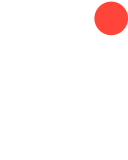
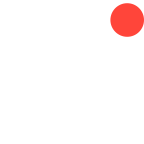
feat: resize battery to 18x18 with slightly larger terminals

Changed region(s): [[0.7812, 0.0556, 1.0, 0.2778], [0.7188, 0.0, 0.9688, 0.1944]]

diff --git a/Tests/LeanBatteryCoreTests/IconRendererTests.swift b/Tests/LeanBatteryCoreTests/IconRendererTests.swift
@@ -47,8 +47,8 @@ private func render(_ state: BatteryState) throws -> Pixels {
 @Suite struct IconRendererTests {
 	@Test func rendersAtRequestedScale() throws {
 		let image = try #require(IconRenderer.render(IconSpec(state: BatteryState(percent: 57)), foregroundIsWhite: true, scale: 2))
-		#expect(image.width == 32)
-		#expect(image.height == 40)
+		#expect(image.width == 36)
+		#expect(image.height == 36)
 	}
 
 	@Test func bodyStrokeIsForeground() throws {
@@ -60,45 +60,45 @@ private func render(_ state: BatteryState) throws -> Pixels {
 	}
 
 	@Test func foregroundFillIsTranslucent() throws {
-		// (3, 17) is inside the fill, below the number; 28% alpha ≈ 71.
-		let pixel = try render(BatteryState(percent: 50)).at(3, 17)
+		// (3, 15) is inside the fill, below the number; 28% alpha ≈ 71.
+		let pixel = try render(BatteryState(percent: 50)).at(3, 15)
 		#expect((60...85).contains(pixel[3]))
 	}
 
 	@Test func chargingFillIsTranslucentGreen() throws {
 		// 60% alpha ≈ 153; premultiplied green channel dominates.
-		let pixel = try render(BatteryState(percent: 50, isCharging: true, isPluggedIn: true)).at(3, 17)
+		let pixel = try render(BatteryState(percent: 50, isCharging: true, isPluggedIn: true)).at(3, 15)
 		#expect((140...165).contains(pixel[3]))
 		#expect(pixel[1] > pixel[0] && pixel[1] > pixel[2])
 	}
 
 	@Test func numberIsSolidOverFillWithoutGaps() throws {
 		// At 88% the whole glyph area is inside the fill: digits solid white, nothing cut out.
-		let glyphArea = try render(BatteryState(percent: 88)).region(x: 2.5...13.5, y: 7...15)
+		let glyphArea = try render(BatteryState(percent: 88)).region(x: 3.5...14.5, y: 6...14)
 		#expect(glyphArea.contains { $0 == [255, 255, 255, 255] })
 		#expect(!glyphArea.contains { $0[3] == 0 })
 	}
 
 	@Test func plugIsSolidInsideFill() throws {
-		// (8, 14.0) is on the plug's cord, below where a "100" would sit.
-		#expect(try render(BatteryState(percent: 100, isPluggedIn: true)).at(8, 14.0) == [255, 255, 255, 255])
-		#expect(try render(BatteryState(percent: 100)).at(8, 14.0)[3] < 255)
+		// (9, 13.25) is on the plug's cord, below where a "100" would sit.
+		#expect(try render(BatteryState(percent: 100, isPluggedIn: true)).at(9, 13.25) == [255, 255, 255, 255])
+		#expect(try render(BatteryState(percent: 100)).at(9, 13.25)[3] < 255)
 	}
 
 	@Test func hotBadgeIsRedWithTransparentRing() throws {
 		let hot = try render(BatteryState(percent: 57, isHot: true))
-		let badge = hot.at(13.9, 2.3)
+		let badge = hot.at(15.9, 2.5)
 		#expect(badge[0] > 220 && badge[1] < 100 && badge[3] == 255)
-		// (15.3, 4.3) is on the body's rounded corner stroke, inside the cleared ring.
-		#expect(hot.at(15.3, 4.3)[3] == 0)
-		#expect(try render(BatteryState(percent: 57)).at(15.3, 4.3)[3] == 255)
+		// (17.3, 4.5) is on the body's rounded corner stroke, inside the cleared ring.
+		#expect(hot.at(17.3, 4.5)[3] == 0)
+		#expect(try render(BatteryState(percent: 57)).at(17.3, 4.5)[3] == 255)
 	}
 
 	@Test func twoTopTerminalsHaveATransparentGap() throws {
 		let pixels = try render(BatteryState(percent: 57))
-		#expect(pixels.at(4.5, 1) == [255, 255, 255, 255])
-		#expect(pixels.at(11.5, 1) == [255, 255, 255, 255])
-		#expect(pixels.at(8, 1)[3] == 0)
+		#expect(pixels.at(5, 1) == [255, 255, 255, 255])
+		#expect(pixels.at(13, 1) == [255, 255, 255, 255])
+		#expect(pixels.at(9, 1)[3] == 0)
 	}
 
 	@Test(arguments: 0...100)
@@ -114,7 +114,7 @@ private func render(_ state: BatteryState) throws -> Pixels {
 	@Test(arguments: [1.0, 2.0])
 	func rendersNewDimensionsAtEachScale(scale: Double) throws {
 		let image = try #require(IconRenderer.render(IconSpec(state: BatteryState(percent: 100)), foregroundIsWhite: true, scale: scale))
-		#expect(image.width == Int(16 * scale))
-		#expect(image.height == Int(20 * scale))
+		#expect(image.width == Int(18 * scale))
+		#expect(image.height == Int(18 * scale))
 	}
 }

diff --git a/Tests/LeanBatteryCoreTests/PillStyleTests.swift b/Tests/LeanBatteryCoreTests/PillStyleTests.swift
@@ -7,8 +7,8 @@ import Testing
 		#expect(metrics.height == 46)
 		#expect(metrics.minimumWidth == 240)
 		#expect(metrics.maximumWidth == 400)
-		#expect(metrics.iconWidth == 16)
-		#expect(metrics.iconHeight == 20)
+		#expect(metrics.iconWidth == 18)
+		#expect(metrics.iconHeight == 18)
 		#expect(metrics.titleFontSize == 13)
 		#expect(metrics.detailFontSize == 11.5)
 		#expect(metrics.horizontalPadding == 22)
@@ -23,26 +23,27 @@ import Testing
 		let large = PillMetrics(style: .large)
 		#expect(small.height == 46 * 0.85)
 		#expect(small.titleFontSize == 13 * 0.85)
-		#expect(small.iconHeight == 20 * 0.85)
+		#expect(small.iconHeight == 18 * 0.85)
 		#expect(small.minimumWidth == 240 * 0.85)
 		#expect(large.height == 46 * 1.2)
 		#expect(large.titleFontSize == 13 * 1.2)
-		// Large grows the text and the box but not the glyph: 16 x 20 pt is as large as it renders crisply.
-		#expect(large.iconHeight == 20)
+		// Large grows the text and the box but not the glyph: 18 x 18 pt is as large as it renders crisply.
+		#expect(large.iconHeight == 18)
 		#expect(large.maximumWidth == 400 * 1.2)
 	}
 
 	@Test func iconIsNeverDrawnLargerThanTheGlyphIsRendered() {
-		// IconRenderer draws 16 x 20 pt at 1x and 2x; anything wider is an upscale of that bitmap.
+		// IconRenderer draws 18 x 18 pt at 1x and 2x; anything wider is an upscale of that bitmap.
 		for style in PillStyle.allCases {
-			#expect(PillMetrics(style: style).iconWidth <= 16)
+			#expect(PillMetrics(style: style).iconWidth <= 18)
+			#expect(PillMetrics(style: style).iconHeight <= 18)
 		}
 	}
 
-	@Test func iconKeepsItsSixteenToTwentyAspectAtEverySize() {
+	@Test func iconKeepsItsSquareAspectAtEverySize() {
 		for style in PillStyle.allCases {
 			let metrics = PillMetrics(style: style)
-			#expect(abs(metrics.iconWidth / metrics.iconHeight - 16.0 / 20.0) < 0.000001)
+			#expect(metrics.iconWidth == metrics.iconHeight)
 		}
 	}
 

diff --git a/Sources/LeanBatteryCore/IconRenderer.swift b/Sources/LeanBatteryCore/IconRenderer.swift
@@ -5,16 +5,16 @@ import Foundation
 /// Draws the upright battery icon (spec §4.1) into a transparent bitmap.
 public enum IconRenderer {
 	/// Icon canvas in points.
-	public static let size = CGSize(width: 16, height: 20)
+	public static let size = CGSize(width: 18, height: 18)
 
 	private static let terminals = [
-		CGRect(x: 3.0, y: 0.4, width: 3.0, height: 1.6),
-		CGRect(x: 10.0, y: 0.4, width: 3.0, height: 1.6),
+		CGRect(x: 3.25, y: 0.4, width: 3.5, height: 1.8),
+		CGRect(x: 11.25, y: 0.4, width: 3.5, height: 1.8),
 	]
-	private static let body = CGRect(x: 0.45, y: 2.2, width: 15.1, height: 17.4)
+	private static let body = CGRect(x: 0.45, y: 2.4, width: 17.1, height: 15.2)
 	private static let bodyStrokeWidth = 0.9
-	static let inner = CGRect(x: 1.35, y: 3.1, width: 13.3, height: 15.6)
-	private static let badgeCenter = CGPoint(x: 13.9, y: 2.3)
+	static let inner = CGRect(x: 1.35, y: 3.3, width: 15.3, height: 13.4)
+	private static let badgeCenter = CGPoint(x: 15.9, y: 2.5)
 	/// Fill opacities: soft enough that a solid glyph drawn on top stays readable.
 	private static let foregroundFillAlpha = 0.28
 	private static let colorFillAlpha = 0.6
@@ -41,7 +41,7 @@ public enum IconRenderer {
 		return context.makeImage()
 	}
 
-	/// Draws into a context whose user space is 16 × 20 pt with a top-left origin.
+	/// Draws into a context whose user space is 18 × 18 pt with a top-left origin.
 	static func draw(_ spec: IconSpec, foreground: CGColor, in context: CGContext) {
 		context.setFillColor(foreground)
 		for terminal in terminals {

diff --git a/Sources/LeanBatteryCore/PillStyle.swift b/Sources/LeanBatteryCore/PillStyle.swift
@@ -84,7 +84,7 @@ public struct PillMetrics: Equatable, Sendable {
 			height = 42
 			minimumWidth = notchWidth + Self.notchSideMargin
 			maximumWidth = notchWidth + Self.notchSideMargin + Self.notchGrowth
-			iconHeight = 20
+			iconHeight = Double(IconRenderer.size.height)
 			iconWidth = iconHeight * Double(IconRenderer.size.width / IconRenderer.size.height)
 			titleFontSize = 12.5
 			detailFontSize = 11
@@ -101,7 +101,7 @@ public struct PillMetrics: Equatable, Sendable {
 		height = 46 * scale
 		minimumWidth = 240 * scale
 		maximumWidth = 400 * scale
-		// The glyph is rendered at 16 x 20 pt (1x and 2x), so drawing it any larger upscales that bitmap
+		// The glyph is rendered at 18 x 18 pt (1x and 2x), so drawing it any larger upscales that bitmap
 		// and softens it. Small shrinks it; Large keeps it at native size and grows only the text and box.
 		iconWidth = Double(IconRenderer.size.width) * min(scale, 1)
 		iconHeight = Double(IconRenderer.size.height) * min(scale, 1)

diff --git a/Sources/LeanBatteryCore/IconSpec.swift b/Sources/LeanBatteryCore/IconSpec.swift
@@ -39,7 +39,7 @@ public struct IconSpec: Equatable, Sendable {
 		showsHotBadge = state.isHot
 	}
 
-	/// Point size of the number glyph; smaller for three digits so "100" fits the 13.3pt interior.
+	/// Point size of the number glyph; smaller for three digits so "100" fits the 15.3pt interior.
 	public var numberFontSize: Double {
 		glyph == .number(100) ? 8.0 : 10.0
 	}

diff --git a/README.md b/README.md
@@ -3,7 +3,7 @@
 
 > **A battery indicator that doesn't hog your menubar.**
 >
-> A native macOS menubar app that shows battery level and charging state in a 16-point-wide upright battery, with a popover for per-app energy use and battery health.
+> A native macOS menubar app that shows battery level and charging state in an 18-point-wide upright battery, with a popover for per-app energy use and battery health.
 >
 > **<0.1% CPU and 0 idle wakeups** while it sits in your menubar. Measured, not claimed — [see the numbers](#efficiency-measured).
 
@@ -17,7 +17,7 @@
 
 ## Wider-icon fork
 
-This fork changes the battery artwork from 11 × 22 pt to **16 × 20 pt**, with two top terminals instead of a single cap. The shorter icon sits closer to other menubar icons in height. Percentages use 10 pt SF semibold condensed, or 8 pt for `100`, up from 9 pt and 6.6 pt in the earlier 14 × 22 pt version. Every percentage from 0 through 100 is checked against the 13.3 pt drawing interior. Notification battery icons keep the same proportions.
+This fork changes the battery artwork from 11 × 22 pt to **18 × 18 pt**, with two 3.5 × 1.8 pt top terminals instead of a single cap. The shorter icon sits closer to other menubar icons in height. Percentages use 10 pt SF semibold condensed, or 8 pt for `100`. Every percentage from 0 through 100 is checked against the 15.3 pt drawing interior. Notification battery icons keep the same proportions.
 
 The monitoring logic, permissions and update checker are unchanged. Update notices still refer to upstream releases, not builds of this fork. The performance measurements below are upstream's measurements; they have not been repeated for this fork.
 
@@ -41,7 +41,7 @@ Or [download the latest zip](https://github.com/manustays/lean-battery/releases/
 
 The macOS battery icon with a percentage is wide, and on a notched MacBook menubar space is scarce. Many third-party battery apps are wider still, and many poll the system constantly.
 
-**LeanBattery** turns the battery upright: the charge level, charging plug, Low Power Mode and a high-temperature warning all fit in a 16-point-wide icon. It does no polling for battery state — it redraws only when macOS reports a change.
+**LeanBattery** turns the battery upright: the charge level, charging plug, Low Power Mode and a high-temperature warning all fit in an 18-point-wide icon. It does no polling for battery state — it redraws only when macOS reports a change.
 
 ## Efficiency, measured
 
@@ -81,7 +81,7 @@ Numbers are one machine and one configuration; yours will differ. The full metho
 
 **In the menubar (available now)**
 
-- **Upright battery icon, 16 × 20 pt** with two top terminals and the charge % inside.
+- **Upright battery icon, 18 × 18 pt** with two top terminals and the charge % inside.
 - **Charging at a glance** — a plug replaces the number while on power; green fill while charging.
 - **Low Power Mode** shown as a yellow fill; **low battery** (≤ 20%) as red.
 - **High-temperature badge** — a red dot when the battery reaches your threshold (default 40 °C).

diff --git a/docs/menubar-icon.md b/docs/menubar-icon.md
@@ -1,6 +1,6 @@
 # Menubar Icon
 
-LeanBattery's menubar item in this fork is an upright battery, 16 × 20 pt, with two top terminals. Core Graphics draws the outline, translucent fill and plug; Core Text draws the percentage. The app renders these into 1× and 2× images for macOS, rather than loading a fixed icon asset.
+LeanBattery's menubar item in this fork is an upright battery, 18 × 18 pt, with two 3.5 × 1.8 pt top terminals. Core Graphics draws the outline, translucent fill and plug; Core Text draws the percentage. The app renders these into 1× and 2× images for macOS, rather than loading a fixed icon asset.
 
 ## States
 
@@ -13,11 +13,11 @@ LeanBattery's menubar item in this fork is an upright battery, 16 × 20 pt, with
 | Temperature ≥ threshold | unchanged | unchanged + red dot top-right |
 | No battery data (desktop Mac, or before macOS reports power at login) | "—" text instead of the battery | — |
 
-The fill is translucent and the % or plug is always drawn in one solid color (white on a dark menubar, black on a light one) on top of it, so digits stay whole and readable at any charge level. Digits use SF semibold condensed to make use of the wider 13.3pt interior. Text-layout tests verify that all percentages from 0 through 100 fit horizontally and vertically.
+The fill is translucent and the % or plug is always drawn in one solid color (white on a dark menubar, black on a light one) on top of it, so digits stay whole and readable at any charge level. Digits use SF semibold condensed to make use of the wider 15.3pt interior. Text-layout tests verify that all percentages from 0 through 100 fit horizontally and vertically.
 
 ## Sample images
 
-`docs/assets/menubar-*.png` are transparent 128 × 160 px renders (8× the 16 × 20 pt icon) for use in the README or on the web. Each stage has a dark-menubar version (white outline) and a `-light` version (black outline) for light backgrounds.
+`docs/assets/menubar-*.png` are transparent 144 × 144 px renders (8× the 18 × 18 pt icon) for use in the README or on the web. Each stage has a dark-menubar version (white outline) and a `-light` version (black outline) for light backgrounds.
 
 | Stage | Dark background | Light background |
 |---|---|---|

diff --git a/docs/notifications.md b/docs/notifications.md
@@ -28,7 +28,7 @@ Four choices for how the pill is drawn:
 |---|---|
 | Small | The default capsule at 0.85× — text, icon, padding and width all scale together |
 
-Title and detail are centred, with the icon and text set in from the body's edges. The battery glyph is rendered at 16 × 20 pt, so that is the largest it is ever drawn: Small shrinks it, and Large grows the text and the box but leaves the glyph at native size rather than upscaling a bitmap.
+Title and detail are centred, with the icon and text set in from the body's edges. The battery glyph is rendered at 18 × 18 pt, so that is the largest it is ever drawn: Small shrinks it, and Large grows the text and the box but leaves the glyph at native size rather than upscaling a bitmap.
 
 | Default | The standard floating capsule |
 | Large | The same capsule at 1.2× |
